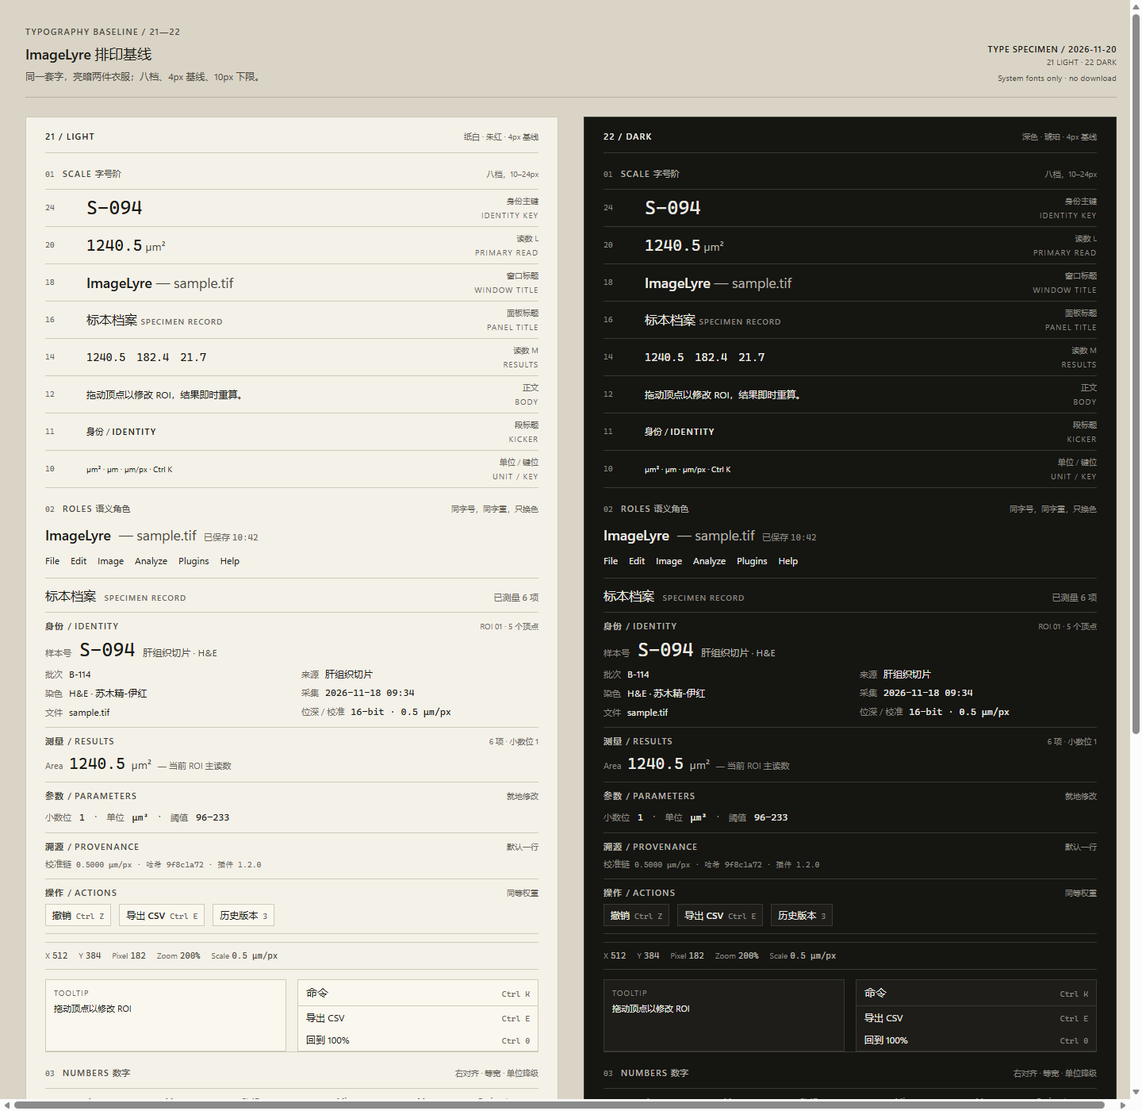
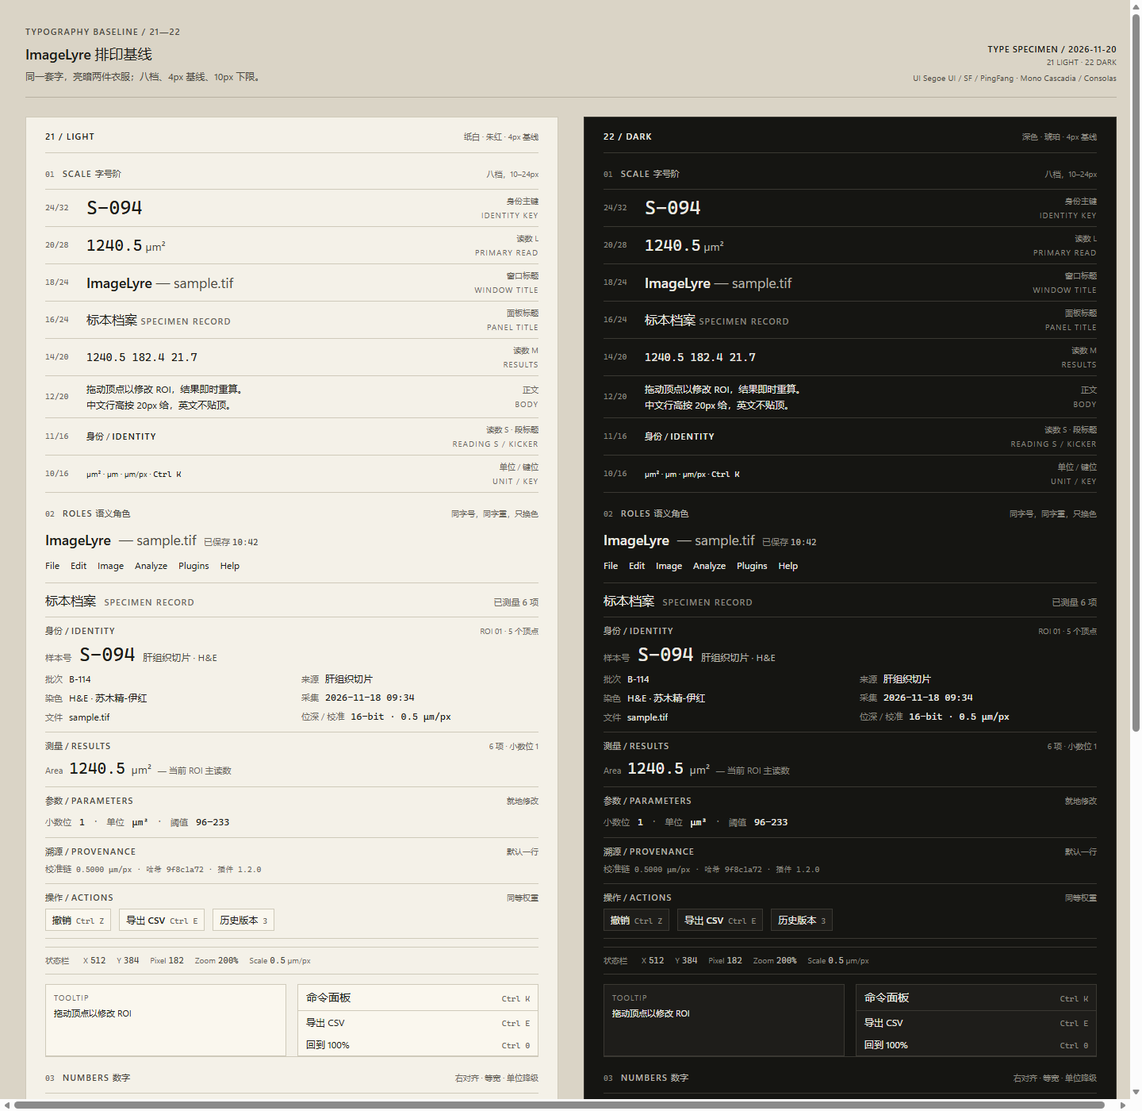
docs(design): 排印 1.2，拉丁字重合并、数字列禁千分位

diff --git a/docs/design/lukan/bakeoff-2026-11-20/type-specimen.html b/docs/design/lukan/bakeoff-2026-11-20/type-specimen.html
@@ -44,6 +44,7 @@
   .t1{color:var(--ink)}
   .t2{color:var(--t2)}
   .t3{color:var(--t3)}
+  .zh{letter-spacing:0;text-transform:none;font-weight:500}
   .sig{color:var(--sig)}
 
   /* page head */
@@ -108,13 +109,14 @@
   .menuline{display:flex;gap:14px;font-size:var(--fs12);line-height:var(--lh12);color:var(--ink);padding-bottom:12px;border-bottom:1px solid var(--hair)}
   .panelbar{display:flex;align-items:baseline;justify-content:space-between;gap:12px;padding:10px 0 8px;border-bottom:1px solid var(--hair)}
   .ptitle{font-size:var(--fs16);line-height:var(--lh16);font-weight:500;color:var(--ink)}
-  .ptitle .en{font-size:var(--fs10);line-height:var(--lh10);font-weight:600;color:var(--t3);margin-left:6px}
+  .ptitle .en{font-size:var(--fs11);line-height:var(--lh11);font-weight:600;color:var(--t3);margin-left:6px}
   .panelbar .state{font-size:var(--fs11);line-height:var(--lh11);color:var(--t3)}
 
   .seg{padding:9px 0;border-bottom:1px solid var(--hair)}
   .seg:last-child{border-bottom:none}
   .seghead{display:flex;align-items:baseline;justify-content:space-between;gap:12px;margin-bottom:6px}
-  .segtitle{font-size:var(--fs11);line-height:var(--lh11);font-weight:600;letter-spacing:.10em;text-transform:uppercase;color:var(--t2)}
+  .segtitle{font-size:var(--fs11);line-height:var(--lh11);font-weight:500;letter-spacing:0;text-transform:none;color:var(--t2)}
+  .segtitle .en{font-weight:600;letter-spacing:.10em;text-transform:uppercase}
   .segtitle .zh{font-weight:500;letter-spacing:0;text-transform:none}
   .segmeta{font-size:var(--fs10);line-height:var(--lh10);color:var(--t3)}
 
@@ -153,6 +155,7 @@
   }
   .status .k{font-size:var(--fs10);line-height:var(--lh10);color:var(--t3);margin-right:3px}
   .status .v{font-family:var(--mono);font-size:var(--fs11);line-height:var(--lh11);color:var(--t2)}
+  .status .role{font-size:var(--fs10);line-height:var(--lh10);color:var(--t3);letter-spacing:0;text-transform:none;margin-right:4px}
 
   .extras{display:grid;grid-template-columns:1fr 1fr;gap:14px;margin-top:12px}
   .tip{border:1px solid var(--hair);background:var(--chip);padding:8px 10px;font-size:var(--fs11);line-height:var(--lh11);color:var(--ink)}
@@ -210,13 +213,13 @@
   <header class="head">
     <div>
       <div class="kicker">Typography baseline / 21—22</div>
-      <div class="h1"><span class="w600">ImageLyre</span> <span class="w500">排印基线</span></div>
+      <div class="h1"><span class="w600">ImageLyre</span> <span class="w500 zh">排印基线</span></div>
       <div class="sub">同一套字，亮暗两件衣服；八档、4px 基线、10px 下限。</div>
     </div>
     <div class="headmeta">
       <div class="strong">Type specimen / 2026-11-20</div>
       <div class="row">21 LIGHT · 22 DARK</div>
-      <div class="row">System fonts only · no download</div>
+      <div class="row">UI Segoe UI / SF / PingFang · Mono Cascadia / Consolas</div>
     </div>
   </header>
 
@@ -236,43 +239,43 @@
         </div>
         <div class="scale">
           <div class="srow">
-            <span class="ssize">24</span>
+            <span class="ssize">24/32</span>
             <span class="ssample mono s24">S-094</span>
             <span class="srole">身份主键<span class="en">Identity key</span></span>
           </div>
           <div class="srow">
-            <span class="ssize">20</span>
+            <span class="ssize">20/28</span>
             <span class="ssample mono s20">1240.5<span class="unit14">µm²</span></span>
             <span class="srole">读数 L<span class="en">Primary read</span></span>
           </div>
           <div class="srow">
-            <span class="ssize">18</span>
+            <span class="ssize">18/24</span>
             <span class="ssample s18"><span class="w600">ImageLyre</span> <span class="t2 w400">— sample.tif</span></span>
             <span class="srole">窗口标题<span class="en">Window title</span></span>
           </div>
           <div class="srow">
-            <span class="ssize">16</span>
-            <span class="ssample s16"><span class="w500">标本档案</span> <span class="s10 t3 en w600">Specimen record</span></span>
+            <span class="ssize">16/24</span>
+            <span class="ssample s16"><span class="w500">标本档案</span> <span class="s11 t3 en w600">Specimen record</span></span>
             <span class="srole">面板标题<span class="en">Panel title</span></span>
           </div>
           <div class="srow">
-            <span class="ssize">14</span>
-            <span class="ssample mono s14">1240.5　182.4　21.7</span>
+            <span class="ssize">14/20</span>
+            <span class="ssample mono s14">1240.5 182.4 21.7</span>
             <span class="srole">读数 M<span class="en">Results</span></span>
           </div>
           <div class="srow">
-            <span class="ssize">12</span>
-            <span class="ssample s12">拖动顶点以修改 ROI，结果即时重算。</span>
+            <span class="ssize">12/20</span>
+            <span class="ssample s12">拖动顶点以修改 ROI，结果即时重算。<br>中文行高按 20px 给，英文不贴顶。</span>
             <span class="srole">正文<span class="en">Body</span></span>
           </div>
           <div class="srow">
-            <span class="ssize">11</span>
+            <span class="ssize">11/16</span>
             <span class="ssample s11"><span class="w500">身份</span> / <span class="en w600">Identity</span></span>
-            <span class="srole">段标题<span class="en">Kicker</span></span>
+            <span class="srole">读数 S · 段标题<span class="en">Reading S / kicker</span></span>
           </div>
           <div class="srow">
-            <span class="ssize">10</span>
-            <span class="ssample s10 t3">µm² · µm · µm/px · Ctrl K</span>
+            <span class="ssize">10/16</span>
+            <span class="ssample s10 t3">µm² · µm · µm/px · <span class="mono">Ctrl K</span></span>
             <span class="srole">单位 / 键位<span class="en">Unit / key</span></span>
           </div>
         </div>
@@ -286,7 +289,7 @@
 
         <div class="rolewin">
           <span class="s18 w600">ImageLyre</span><span class="s18 w400 t2">— sample.tif</span>
-          <span class="s11 t3">已保存 <span class="mono">10:42</span></span>
+          <span class="s11 t3">已保存 <span class="mono t2">10:42</span></span>
         </div>
         <div class="menuline">
           <span>File</span><span>Edit</span><span>Image</span><span>Analyze</span><span>Plugins</span><span>Help</span>
@@ -313,7 +316,7 @@
             <div class="field"><span class="k">染色</span><span class="v">H&amp;E · 苏木精-伊红</span></div>
             <div class="field"><span class="k">采集</span><span class="v mono">2026-11-18 09:34</span></div>
             <div class="field"><span class="k">文件</span><span class="v">sample.tif</span></div>
-            <div class="field"><span class="k">位深 / 校准</span><span class="v mono">16-bit · 0.5 µm/px</span></div>
+            <div class="field"><span class="k">位深 / 校准</span><span class="v mono">16-bit · 0.5&nbsp;µm/px</span></div>
           </div>
         </div>
 
@@ -361,18 +364,18 @@
           </div>
         </div>
 
-        <div class="status">
+        <div class="status"><span class="role">状态栏</span>
           <span><span class="k">X</span><span class="v">512</span></span>
           <span><span class="k">Y</span><span class="v">384</span></span>
           <span><span class="k">Pixel</span><span class="v">182</span></span>
           <span><span class="k">Zoom</span><span class="v">200%</span></span>
-          <span><span class="k">Scale</span><span class="v">0.5 µm/px</span></span>
+          <span><span class="k">Scale</span><span class="v">0.5<span class="unit10">µm/px</span></span></span>
         </div>
 
         <div class="extras">
           <div class="tip"><span class="k">Tooltip</span>拖动顶点以修改 ROI</div>
           <div class="palette">
-            <div class="palhead"><span class="t">命令</span><span class="k">Ctrl K</span></div>
+            <div class="palhead"><span class="t">命令面板</span><span class="k">Ctrl K</span></div>
             <div class="palitem"><span>导出 CSV</span><span class="k">Ctrl E</span></div>
             <div class="palitem"><span>回到 100%</span><span class="k">Ctrl 0</span></div>
           </div>
@@ -411,7 +414,7 @@
           </div>
         </div>
         <div class="mnote">小数位固定：Area 1 · Mean 1 · StdDev 1 · Min 0 · Max 0 · Perimeter 1</div>
-        <div class="numdemo"><span class="k">GROUPING</span><span class="v">12 480.5 <span class="unit11">µm²</span></span></div>
+        <div class="numdemo"><span class="k">GROUPING</span><span class="v">12&#8239;480.5&nbsp;<span class="unit11">µm²</span></span></div>
         <div class="numdemo"><span class="k">CSV</span><span class="csv">1240.5,182.4,21.7,96,233,148.2</span></div>
       </div>
 
@@ -423,7 +426,7 @@
         <div class="mix">
           <div class="mixrow"><span class="k">中 ↔ 英</span><span class="v">测量 / <span class="en">Results</span></span></div>
           <div class="mixrow"><span class="k">数 ↔ 量词</span><span class="v">6 个 ROI，3 张切片</span></div>
-          <div class="mixrow"><span class="k">数 ↔ 单位</span><span class="v">1240.5 µm² · 0.5 µm/px</span></div>
+          <div class="mixrow"><span class="k">数 ↔ 单位</span><span class="v">1240.5&nbsp;µm² · 0.5&nbsp;µm/px</span></div>
           <div class="mixrow"><span class="k">句内中英</span><span class="v">导出的 CSV 与界面小数位一致。</span></div>
         </div>
       </div>
@@ -458,43 +461,43 @@
         </div>
         <div class="scale">
           <div class="srow">
-            <span class="ssize">24</span>
+            <span class="ssize">24/32</span>
             <span class="ssample mono s24">S-094</span>
             <span class="srole">身份主键<span class="en">Identity key</span></span>
           </div>
           <div class="srow">
-            <span class="ssize">20</span>
+            <span class="ssize">20/28</span>
             <span class="ssample mono s20">1240.5<span class="unit14">µm²</span></span>
             <span class="srole">读数 L<span class="en">Primary read</span></span>
           </div>
           <div class="srow">
-            <span class="ssize">18</span>
+            <span class="ssize">18/24</span>
             <span class="ssample s18"><span class="w600">ImageLyre</span> <span class="t2 w400">— sample.tif</span></span>
             <span class="srole">窗口标题<span class="en">Window title</span></span>
           </div>
           <div class="srow">
-            <span class="ssize">16</span>
-            <span class="ssample s16"><span class="w500">标本档案</span> <span class="s10 t3 en w600">Specimen record</span></span>
+            <span class="ssize">16/24</span>
+            <span class="ssample s16"><span class="w500">标本档案</span> <span class="s11 t3 en w600">Specimen record</span></span>
             <span class="srole">面板标题<span class="en">Panel title</span></span>
           </div>
           <div class="srow">
-            <span class="ssize">14</span>
-            <span class="ssample mono s14">1240.5　182.4　21.7</span>
+            <span class="ssize">14/20</span>
+            <span class="ssample mono s14">1240.5 182.4 21.7</span>
             <span class="srole">读数 M<span class="en">Results</span></span>
           </div>
           <div class="srow">
-            <span class="ssize">12</span>
-            <span class="ssample s12">拖动顶点以修改 ROI，结果即时重算。</span>
+            <span class="ssize">12/20</span>
+            <span class="ssample s12">拖动顶点以修改 ROI，结果即时重算。<br>中文行高按 20px 给，英文不贴顶。</span>
             <span class="srole">正文<span class="en">Body</span></span>
           </div>
           <div class="srow">
-            <span class="ssize">11</span>
+            <span class="ssize">11/16</span>
             <span class="ssample s11"><span class="w500">身份</span> / <span class="en w600">Identity</span></span>
-            <span class="srole">段标题<span class="en">Kicker</span></span>
+            <span class="srole">读数 S · 段标题<span class="en">Reading S / kicker</span></span>
           </div>
           <div class="srow">
-            <span class="ssize">10</span>
-            <span class="ssample s10 t3">µm² · µm · µm/px · Ctrl K</span>
+            <span class="ssize">10/16</span>
+            <span class="ssample s10 t3">µm² · µm · µm/px · <span class="mono">Ctrl K</span></span>
             <span class="srole">单位 / 键位<span class="en">Unit / key</span></span>
           </div>
         </div>
@@ -508,7 +511,7 @@
 
         <div class="rolewin">
           <span class="s18 w600">ImageLyre</span><span class="s18 w400 t2">— sample.tif</span>
-          <span class="s11 t3">已保存 <span class="mono">10:42</span></span>
+          <span class="s11 t3">已保存 <span class="mono t2">10:42</span></span>
         </div>
         <div class="menuline">
           <span>File</span><span>Edit</span><span>Image</span><span>Analyze</span><span>Plugins</span><span>Help</span>
@@ -535,7 +538,7 @@
             <div class="field"><span class="k">染色</span><span class="v">H&amp;E · 苏木精-伊红</span></div>
             <div class="field"><span class="k">采集</span><span class="v mono">2026-11-18 09:34</span></div>
             <div class="field"><span class="k">文件</span><span class="v">sample.tif</span></div>
-            <div class="field"><span class="k">位深 / 校准</span><span class="v mono">16-bit · 0.5 µm/px</span></div>
+            <div class="field"><span class="k">位深 / 校准</span><span class="v mono">16-bit · 0.5&nbsp;µm/px</span></div>
           </div>
         </div>
 
@@ -583,18 +586,18 @@
           </div>
         </div>
 
-        <div class="status">
+        <div class="status"><span class="role">状态栏</span>
           <span><span class="k">X</span><span class="v">512</span></span>
           <span><span class="k">Y</span><span class="v">384</span></span>
           <span><span class="k">Pixel</span><span class="v">182</span></span>
           <span><span class="k">Zoom</span><span class="v">200%</span></span>
-          <span><span class="k">Scale</span><span class="v">0.5 µm/px</span></span>
+          <span><span class="k">Scale</span><span class="v">0.5<span class="unit10">µm/px</span></span></span>
         </div>
 
         <div class="extras">
           <div class="tip"><span class="k">Tooltip</span>拖动顶点以修改 ROI</div>
           <div class="palette">
-            <div class="palhead"><span class="t">命令</span><span class="k">Ctrl K</span></div>
+            <div class="palhead"><span class="t">命令面板</span><span class="k">Ctrl K</span></div>
             <div class="palitem"><span>导出 CSV</span><span class="k">Ctrl E</span></div>
             <div class="palitem"><span>回到 100%</span><span class="k">Ctrl 0</span></div>
           </div>
@@ -633,7 +636,7 @@
           </div>
         </div>
         <div class="mnote">小数位固定：Area 1 · Mean 1 · StdDev 1 · Min 0 · Max 0 · Perimeter 1</div>
-        <div class="numdemo"><span class="k">GROUPING</span><span class="v">12 480.5 <span class="unit11">µm²</span></span></div>
+        <div class="numdemo"><span class="k">GROUPING</span><span class="v">12&#8239;480.5&nbsp;<span class="unit11">µm²</span></span></div>
         <div class="numdemo"><span class="k">CSV</span><span class="csv">1240.5,182.4,21.7,96,233,148.2</span></div>
       </div>
 
@@ -645,7 +648,7 @@
         <div class="mix">
           <div class="mixrow"><span class="k">中 ↔ 英</span><span class="v">测量 / <span class="en">Results</span></span></div>
           <div class="mixrow"><span class="k">数 ↔ 量词</span><span class="v">6 个 ROI，3 张切片</span></div>
-          <div class="mixrow"><span class="k">数 ↔ 单位</span><span class="v">1240.5 µm² · 0.5 µm/px</span></div>
+          <div class="mixrow"><span class="k">数 ↔ 单位</span><span class="v">1240.5&nbsp;µm² · 0.5&nbsp;µm/px</span></div>
           <div class="mixrow"><span class="k">句内中英</span><span class="v">导出的 CSV 与界面小数位一致。</span></div>
         </div>
       </div>
@@ -670,7 +673,7 @@
 
   <footer class="foot">
     <div>
-      <div class="fl">Not allowed / 禁止</div>
+      <div class="fl">Not allowed <span class="zh">/ 禁止</span></div>
       <div class="list">700 · 斜体 oblique · 描边字 · 阴影字 · 小于 10px · 全大写中文 · 中文加字距或两端对齐 · 颜色代替层级 · 全角数字 · 截断数字与单位</div>
     </div>
     <div class="fr">21/22 同字号、同字重、同行高；<br>只换颜色与材质。8 档 / 4px 基线 / 10px 下限。</div>

diff --git a/docs/design/lukan/bakeoff-2026-11-20/typography.md b/docs/design/lukan/bakeoff-2026-11-20/typography.md
@@ -4,6 +4,7 @@
 | :--- | :--- | :--- | :--- | :--- |
 | 1.0 | 2026-11-20 | 现行 | lukan | 为稿 21（亮）/ 22（暗）统一排印；字号、字重、行高、数字与中英混排一次定死 |
 | 1.1 | 2026-11-20 | 现行 | lukan | 按 Avalonia 实测收紧：中文只有 400（YaHei 500 落 400、600 落 700）；10 档不给中文；载体说明补全 |
+| 1.2 | 2026-11-20 | 现行 | lukan | 按 Windows 实测再收两处：拉丁 500 与 600 同笔画，不靠字重分两级；数字列禁用千分位，避免等宽列错位；字距给出 DIP 换算 |
 
 ## 0 三条前提
 
@@ -56,7 +57,7 @@
 | 20 | 20 / 28 | mono 400 | 读数 L：当前 ROI 的主读数 | ROI 旁标签、选中测量的强调值 |
 | 18 | 18 / 24 | sans 600（拉丁） | 窗口标题 | 标题栏应用名；文件名同级 400 |
 | 16 | 16 / 24 | 拉丁 600 / 中文 400 | 面板标题 | 「标本档案 / Specimen Record」 |
-| 14 | 14 / 20 | mono 400 | 读数 M：六项 Results | 测量表所有数值；命令面板标题用 sans 500 同档 |
+| 14 | 14 / 20 | mono 400 | 读数 M：六项 Results | 测量表所有数值；命令面板标题用 sans 600（拉丁）同档 |
 | 12 | 12 / 20 | sans 400 | 正文、菜单、字段值、按钮、面板列表项 | 全局默认正文 |
 | 11 | 11 / 16 | sans 400 / 600 | 字段标签、段标题、表头、状态栏、工具提示 | 400 用于标签；600 只给拉丁大写段标题/表头 |
 | 10 | 10 / 16 | sans 400 / mono 400 | 单位、快捷键、哈希、拉丁脚注 | 全局下限；中文脚注升到 11，不再向下 |
@@ -76,6 +77,7 @@
 | 斜体 / 描边 | **禁止** | — | 不用 `font-style: italic`、`oblique`、`-webkit-text-stroke` |
 
 - **中文只有 400**：YaHei / PingFang 没有 Medium 与 Semibold 面，实测 500 落到 400、600 落到 700；中文的层级只能靠字号、T1/T2/T3 与留白，不能靠字重。
+- **拉丁的 500 与 600 在 Windows 上是同一笔画**：Segoe UI 与 Segoe UI Variable Text 都把两者落到 Semibold；不要把 500 与 600 当作两级字重使用，同屏只选其中一级，层级靠字号与颜色。
 - 等宽数字只用 400：Consolas 等字体没有 500，请求 500 只会合成；读数强调靠 20px 与 T1，不靠加粗。
 - `font-synthesis: none` 必须开启；系统缺字重时允许回退，不允许合成。
 
@@ -97,6 +99,7 @@
 - **大写拉丁标签**（`IDENTITY`、`RESULTS`）字距 0.10em；中文并列部分字距 0，不用 `text-transform` 作用于中文。
 - 表头用正常大小写（`Area`、`Mean`），字距 0；不把 ImageJ 的列名改成全大写。
 - 中文行不使用 `letter-spacing`，不 `text-align: justify`；拉开中文字距视为错误。
+- 字距在 Avalonia 里是绝对 DIP，不是 em：24px 的 −0.01em 记 −0.24，18px 记 −0.18，11px 大写 0.10em 记 +1.10，12px 菜单 0.01em 记 +0.12；实现按 DIP 写，不按 em 写。
 
 ## 5 数字规则
 
@@ -113,7 +116,8 @@
 
 | 场景 | 规则 |
 | :--- | :--- |
-| 界面千分位 | 整数部分 ≥ 5 位用窄不换行空格 U+202F（`12 480.5`）；4 位以内不加（`1240.5`） |
+| 读数列 | **不加千分位**；整数位再长也保持连续数字，右对齐靠等宽 |
+| 正文 / 摘要 | 需要分隔时用不换行空格 U+00A0（`12 480.5`）；不用 U+202F，等宽族里它只占半格，会把列拉歪 |
 | 坐标 / 像素 / ROI 编号 | 不加千分位（`512`、`384`、`01`） |
 | 负数 | 界面用减号 U+2212（`−21.7`）；CSV 用 ASCII 连字符 |
 | 百分数 | 不加空格（`200%`） |
@@ -136,7 +140,7 @@
 
 ### 5.4 CSV 与界面
 
-- **精度一致**：界面与 CSV 共用同一套小数位规则；界面加千分位与单位，CSV 只写原始数值。
+- **精度一致**：界面与 CSV 共用同一套小数位规则；界面加单位，CSV 只写原始数值；千分位不进数字列。
 - CSV 数值列：点号小数、无千分位、无单位、无空格；单位放表头或 sidecar 元数据。
 - CSV 的负号为 ASCII `-`，界面为 U+2212；两者数值相同。
 - CSV 表头用 ImageJ 原名：`Area,Mean,StdDev,Min,Max,Perimeter`；界面列名同源。
@@ -157,7 +161,7 @@
 - 中文不加大写字距；需要大写与字距时，只包住拉丁片段（HTML 示例：`<span class="en">IDENTITY</span>`）。
 - 中文字体只从回退链取；不用全角拉丁/数字；不用全角空格凑间距。
 - 中文和英文并排时，行高按中文给（12/20、11/16），避免英文贴顶。
-- 双语段标题统一写法：中文 500 + 空格 + `/` + 空格 + 拉丁大写 600（0.10em）。例：`身份 / IDENTITY`。
+- 双语段标题统一写法：中文 400 + 空格 + `/` + 空格 + 拉丁大写 600（0.10em）。例：`身份 / IDENTITY`。
 
 ## 7 语义角色表
 
@@ -177,10 +181,10 @@
 | 单位 | 10–14 / 16–20 | 400 | 0 | T2 / T3 | 按读数降一级；不换行、不省略 |
 | 状态栏 | 11 / 16 | 400 | 0 | T2 | 底栏；标签 T3，数值 mono 11 T2 |
 | 工具提示 | 11 / 16 | 400 | 0 | T1 | 平板浮层，1px 边框；无阴影 |
-| 命令面板标题 | 14 / 20 | 500 | 0 | T1 | 面板标题行 |
+| 命令面板标题 | 14 / 20 | 600 拉丁、400 中文 | 0 | T1 | 面板标题行 |
 | 命令面板项 | 12 / 20 | 400 | 0 | T1 / T2 | 命令名；快捷键 10 mono T3 |
-| 表头 | 11 / 16 | 600 拉丁、500 中文 | 0 | T3 | Area / Mean / StdDev / Min / Max / Perimeter |
-| 按钮 / 操作 | 12 / 20 | 500 | 0 | T1 | 撤销、导出 CSV、历史版本；快捷键 10 mono T3 |
+| 表头 | 11 / 16 | 600 拉丁、400 中文 | 0 | T3 | Area / Mean / StdDev / Min / Max / Perimeter |
+| 按钮 / 操作 | 12 / 20 | 600 拉丁、400 中文 | 0 | T1 | 撤销、导出 CSV、历史版本；快捷键 10 mono T3 |
 | 已保存状态 | 11 / 16 | 400 | 0 | T3 | 「已保存」；时间 mono 11 T2 |
 | 哈希 / 版本 | 10 / 16 | mono 400 | 0 | T3 | 校准链、哈希前八位、插件版本 |
 
@@ -216,12 +220,12 @@
 
 | 五段 | 21 亮 | 22 暗 | 排印口径 |
 | :--- | :--- | :--- | :--- |
-| 身份 Identity | 面板标题 16/500；样本号 24/400 mono；字段标签 11/400 T3；值 12/400；文件 12/400；位深/校准 12 mono | 同左，换色 | 身份段是全屏唯一 24；样本号一行一个 |
+| 身份 Identity | 面板标题 16/600 拉丁、400 中文；样本号 24/400 mono；字段标签 11/400 T3；值 12/400；文件 12/400；位深/校准 12 mono | 同左，换色 | 身份段是全屏唯一 24；样本号一行一个 |
 | 测量 Results | 段标题 11/600；ROI 主读数 L 20/400 mono；六项 M 14/400 mono；单位 L→14/M→11；表头 11/600；台账行 11/400 | 同左，换色；琥珀 Signal | 六项同字号，Area 不再单独放大 |
-| 参数 Parameters | 段标题 11/600；标签 11/400 T3；值 12/500；分段控件 11/400，选中 500；单位 11/T2；自动重算 11 | 同左，换色 | 就地改，无弹窗；字号不跳动 |
+| 参数 Parameters | 段标题 11/600；标签 11/400 T3；值 12/400；分段控件 11/400，选中 600 拉丁；单位 11/T2；自动重算 11 | 同左，换色 | 就地改，无弹窗；字号不跳动 |
 | 溯源 Provenance | 段标题 11/600；摘要 10 mono T3；标签 11；展开行 11/400 | 同左，换色 | 默认一行；哈希与版本 10 是最小档 |
-| 操作 Actions | 段标题 11/600；按钮 12/500；快捷键 10 mono T3；历史版本 10/11 | 同左，换色 | 撤销、导出 CSV 同级；不靠红色强调 |
-| 共享 | 窗口标题 18/600 + 文件 18/400；菜单 12；状态 11；命令面板 14/500 + 12/400 + 10 mono | 同左，换色 | 21/22 结构、字段、字号完全一致 |
+| 操作 Actions | 段标题 11/600；按钮 12/600 拉丁、400 中文；快捷键 10 mono T3；历史版本 10/11 | 同左，换色 | 撤销、导出 CSV 同级；不靠红色强调 |
+| 共享 | 窗口标题 18/600 + 文件 18/400；菜单 12；状态 11；命令面板 14/600 拉丁、400 中文 + 12/400 + 10 mono | 同左，换色 | 21/22 结构、字段、字号完全一致 |
 
 - 21 的朱红与 22 的琥珀只作用于 Signal 色层；不改变字重与字号。
 - 21 的浅底与 22 的深底不得各自微调字号“看着一样大”；用同一套物理字号，对比度修正只改颜色。
